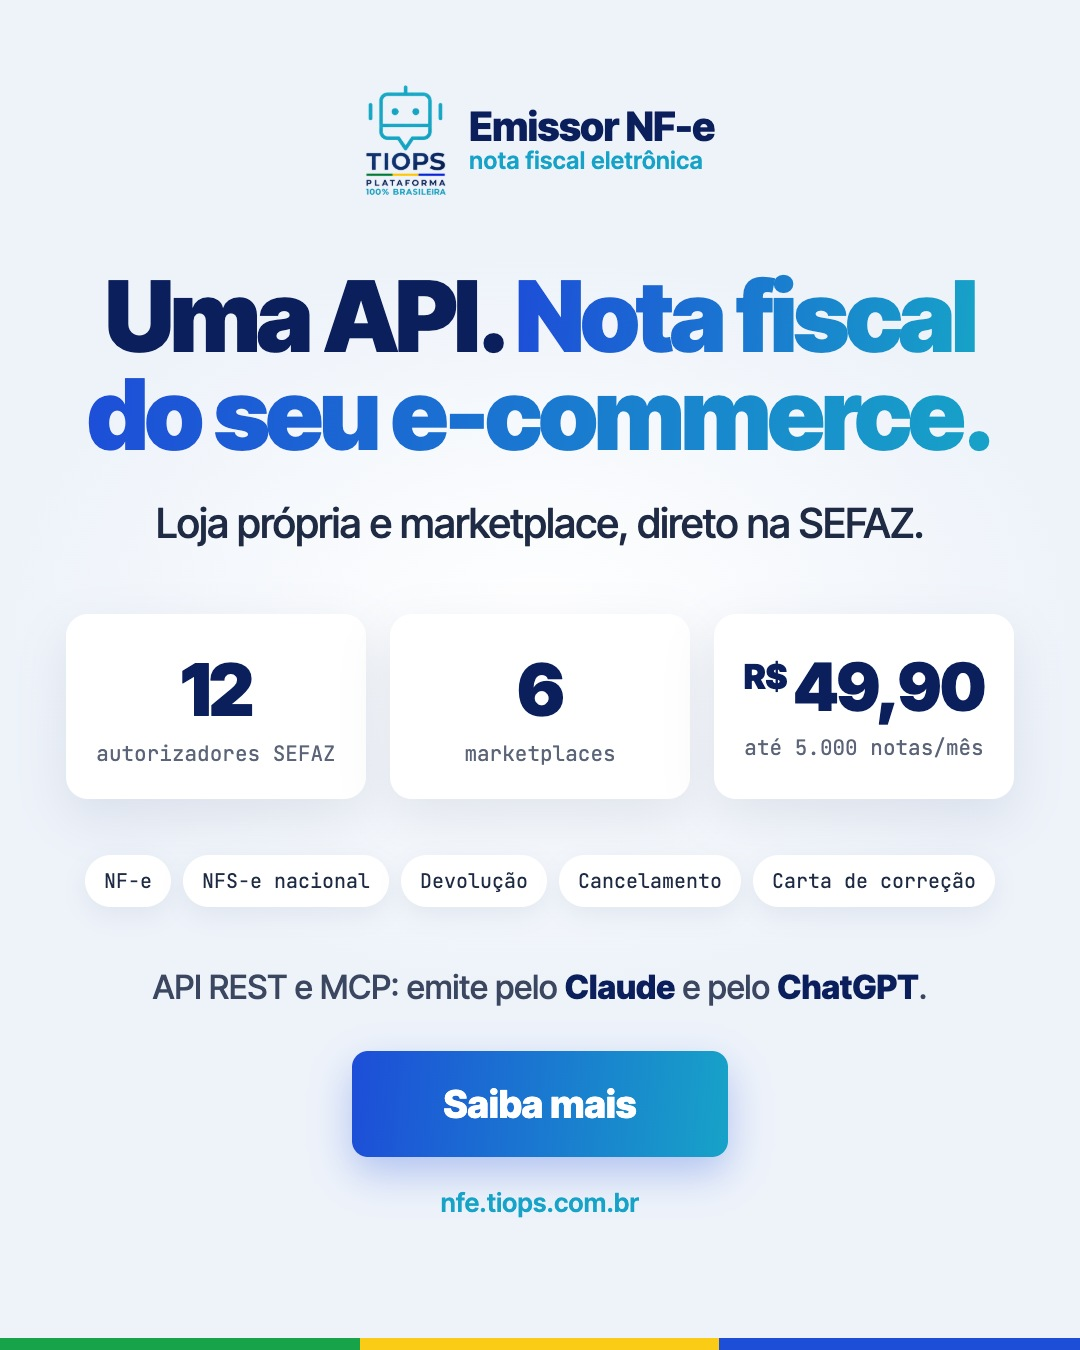
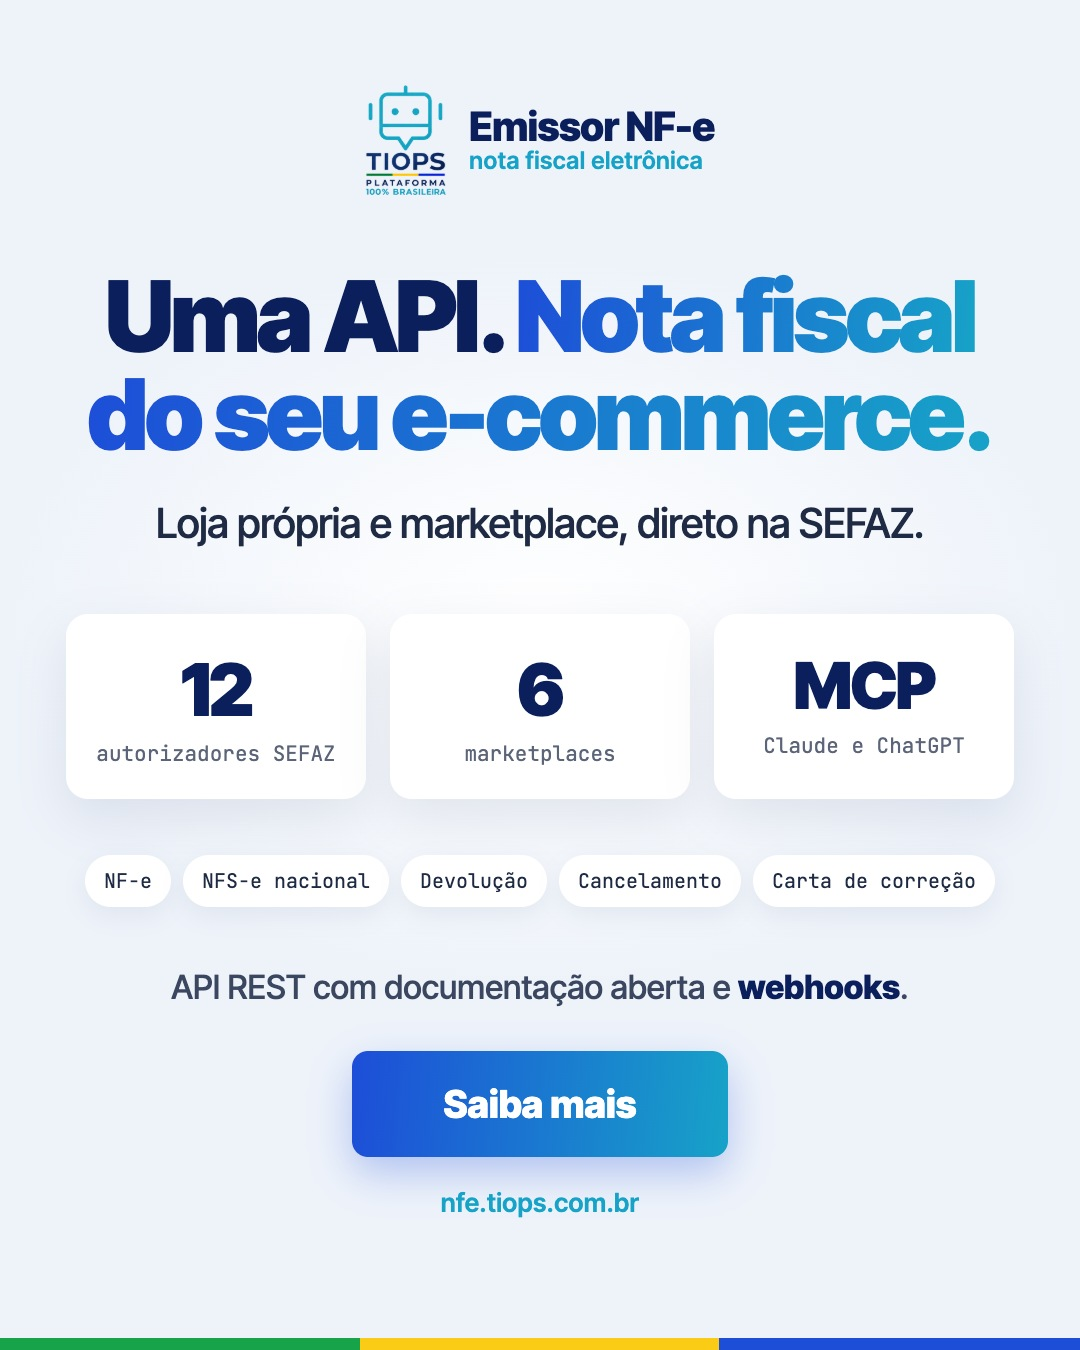
criativo Emissor NF-e: sem preco; prompt para versao premium (Higgsfield/ChatGPT)

Changed region(s): [[0.1222, 0.7156, 0.8556, 0.7467], [0.6722, 0.4667, 0.9167, 0.56]]

diff --git a/output/criativo-nfe-api/criativo.html b/output/criativo-nfe-api/criativo.html
@@ -33,10 +33,10 @@ h1 .g{background:linear-gradient(95deg,var(--azul),var(--ciano));-webkit-backgro
  <div class="cards">
   <div class="card"><b>12</b><i>autorizadores SEFAZ</i></div>
   <div class="card"><b>6</b><i>marketplaces</i></div>
-  <div class="card"><b style="white-space:nowrap;font-size:66px"><small style="font-size:34px;letter-spacing:0;margin-right:6px;vertical-align:22px">R$</small>49,90</b><i>até 5.000 notas/mês</i></div>
+  <div class="card"><b style="white-space:nowrap;font-size:64px">MCP</b><i>Claude e ChatGPT</i></div>
  </div>
  <div class="pills"><div class="pill">NF-e</div><div class="pill">NFS-e nacional</div><div class="pill">Devolução</div><div class="pill">Cancelamento</div><div class="pill">Carta de correção</div></div>
- <div class="ia">API REST e MCP: emite pelo <b>Claude</b> e pelo <b>ChatGPT</b>.</div>
+ <div class="ia">API REST com documentação aberta e <b>webhooks</b>.</div>
  <div class="cta">Saiba mais</div>
  <div class="url">nfe.tiops.com.br</div>
 </div><div class="faixa"></div></body></html>

diff --git a/output/criativo-nfe-api/prompt-higgsfield-chatgpt.md b/output/criativo-nfe-api/prompt-higgsfield-chatgpt.md
@@ -1,0 +1,10 @@
+# Versão "premium" da peça (Higgsfield gpt_image_2_6 ou ChatGPT)
+
+Anexe `criativo-4x5.jpg` como referência e cole:
+
+```
+Premium Instagram feed ad, 4:5, for a Brazilian SaaS "Emissor NF-e" (electronic invoice issuer). Use the attached image as the exact layout and text reference: keep ALL text exactly as written, in Brazilian Portuguese, perfectly spelled, same order. Top: TIOPS robot logo + "Emissor NF-e" / "nota fiscal eletrônica". Huge headline: "Uma API." in dark navy and "Nota fiscal do seu e-commerce." in a blue-to-cyan gradient. Subtitle: "Loja própria e marketplace, direto na SEFAZ." Three white rounded cards: "12" / "autorizadores SEFAZ", "6" / "marketplaces", "MCP" / "Claude e ChatGPT". Pills: "NF-e", "NFS-e nacional", "Devolução", "Cancelamento", "Carta de correção". Line: "API REST com documentação aberta e webhooks." Gradient button "Saiba mais" and below it "nfe.tiops.com.br". Make it richer and more premium than the reference: soft light-blue background with subtle depth, a small floating 3D glass illustration of an invoice document with a green check mark and a blue shield behind the headline area, soft shadows, crisp modern SaaS look, no prices, no other text, no watermark, no other brand.
+```
+
+Conferir o texto letra a letra antes de usar (IA erra acento e número). Sem preço (pedido do Itamar, 20/11).
+Números conferidos pela sessão emissor-nfe em 20/11/2026; não usar prefeituras, uptime, latência, NFC-e, CT-e.
